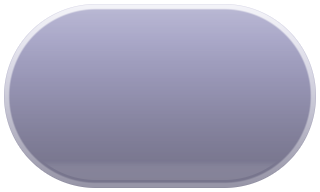
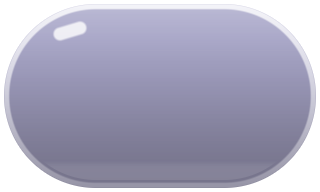
Verre liquide remis comme avant (retour de Thomas : boutons et pastilles trop fades)
- Boutons à texte (JOUER, Défi du jour…) : point de lumière et long reflet du haut revenus ; pastilles de verre (score, niveaux, pièces) : reflet spéculaire revenu. Images identiques au pixel à celles d'avant les finitions du 15/11.
- Boutons ronds à icône seule (réglages, retour…) : variante sans point de lumière ni reflet coupé (ui_button_icon, ui_gloss_icon), pour que la tache blanche ne revienne pas sur la roue crantée.
- ArtPack régénéré, ArtVersion 28 ; maquettes (scene_preview) et ArtPreview à jour ; comparaison docs/apercu/verre_liquide_retour.png.

Claude-Session: https://claude.ai/code/session_01GjF5pVKpWLsxsJrgQmasFX

Changed region(s): [[0.1562, 0.0938, 0.2812, 0.2188]]

diff --git a/Assets/Bascule/Scripts/Core/UiArt.cs b/Assets/Bascule/Scripts/Core/UiArt.cs
@@ -29,7 +29,11 @@ namespace Bascule.Core
         /// Texture 192 × 200, 9-slice de 60 px.
         /// </summary>
         /// <param name="k">Finesse : 2 = texture deux fois plus grande (écrans haute densité), même dessin.</param>
-        public static Raster Button(int w = 192, int h = 200, float k = 1f)
+        /// <param name="iconOnly">
+        /// Bouton rond à icône seule (réglages, retour…) : trait de lumière court, gardé dans le coin, car un bouton de
+        /// 124 px n'a pas de partie étirée et le trait long y était coupé net au milieu.
+        /// </param>
+        public static Raster Button(int w = 192, int h = 200, float k = 1f, bool iconOnly = false)
         {
             w = (int)(w * k); h = (int)(h * k);
             var img = new Raster(w, h);
@@ -42,10 +46,11 @@ namespace Bascule.Core
             // Brillance en haut.
             var gloss = Shape.Intersect(face.Grow(-7f * k), Shape.HalfPlane(0, -1, -(h * 0.66f)));
             img.Fill(gloss, Rgba.White.WithAlpha(0.55f), 3f * k);
-            // Trait de lumière en haut à gauche, entièrement dans le coin gauche de l'image (les 64 px jamais étirés en
-            // 9-slice) : avant, son bout droit dépassait dans la partie étirée et s'allongeait en traînée sur les grands
-            // boutons, et faisait un petit décroché au milieu des boutons ronds.
-            img.Fill(Shape.Capsule(w * 0.17f, h - o - 26 * k, w * 0.25f, h - o - 26 * k, 7f * k), Rgba.White.WithAlpha(0.9f));
+            // Trait de lumière en haut à gauche. Sur les boutons à texte, il déborde dans la partie étirée en 9-slice et
+            // devient le long reflet du « verre liquide » (JOUER, Défi du jour…), comme avant les finitions du 15/11 (retour
+            // de Thomas : sans lui, les boutons étaient fades). Sur les boutons ronds à icône, il reste court, dans le coin.
+            if (iconOnly) img.Fill(Shape.Capsule(w * 0.17f, h - o - 26 * k, w * 0.25f, h - o - 26 * k, 7f * k), Rgba.White.WithAlpha(0.9f));
+            else img.Fill(Shape.Capsule(w * 0.24f, h - o - 26 * k, w * 0.34f, h - o - 26 * k, 7f * k), Rgba.White.WithAlpha(0.9f));
             return img;
         }
 
@@ -74,7 +79,7 @@ namespace Bascule.Core
 
         /// <summary>
         /// Verre liquide (pastilles, dock, barre de score, onglets) : verre bleu nuit translucide, liseré lumineux
-        /// (vif en haut, discret en bas) et reflet de lumière en bas.
+        /// (vif en haut, discret en bas), reflet spéculaire en haut à gauche et reflet de lumière en bas.
         /// Dessiné avec ses propres couleurs : à afficher sans teinte (blanc). 9-slice de 46 px.
         /// </summary>
         public static Raster Glass(int w = 160, int h = 96, float k = 1f)
@@ -97,7 +102,10 @@ namespace Bascule.Core
             // Liseré : un anneau fin, lumineux en haut.
             var rim = Shape.Subtract(body, body.Grow(-2.6f * k));
             img.Fill(rim, Paint.Linear(Rgba.White.WithAlpha(0.85f), 0, h, Rgba.White.WithAlpha(0.22f), 0, 0), 1.2f * k);
-            // Pas de petit trait blanc en haut à gauche : posé seul sur le verre, il se lisait comme une trace.
+            // Reflet spéculaire : un petit trait arrondi en haut à gauche, entièrement dans le bout gauche de l'image
+            // (les 46 px qui ne sont jamais étirés en 9-slice). Sinon il s'allonge en traînée sur les éléments larges.
+            float sx = 30f * k, sy = h - m - 15f * k;
+            img.Fill(Shape.Capsule(sx, sy, sx + 10f * k, sy + 3f * k, 3.2f * k), Rgba.White.WithAlpha(0.8f), 1.5f * k);
             // Reflet de lumière en bas.
             img.FillClipped(body.Grow(-4f * k), Shape.HalfPlane(0, 1, m + 12f * k), Rgba.White.WithAlpha(0.1f), 5f * k);
             return img;
@@ -105,10 +113,14 @@ namespace Bascule.Core
 
         /// <summary>
         /// Reflet « liquide » posé sur les boutons (même taille et mêmes bords que <see cref="Button"/>) : un voile
-        /// blanc bombé sur le haut, un liseré lumineux et un reflet en bas, en blanc pur (non teinté), pour que
-        /// les boutons de couleur aient l'air de verre coloré.
+        /// blanc bombé sur le haut, un liseré lumineux, un point de lumière et un reflet en bas, en blanc pur (non
+        /// teinté), pour que les boutons de couleur aient l'air de verre coloré.
         /// </summary>
-        public static Raster ButtonGloss(int w = 192, int h = 200, float k = 1f)
+        /// <param name="iconOnly">
+        /// Bouton rond à icône seule : sans le point de lumière, qui tombait sur l'icône (la tache blanche sur la roue
+        /// crantée des réglages).
+        /// </param>
+        public static Raster ButtonGloss(int w = 192, int h = 200, float k = 1f, bool iconOnly = false)
         {
             w = (int)(w * k); h = (int)(h * k);
             var img = new Raster(w, h);
@@ -120,8 +132,9 @@ namespace Bascule.Core
             // Liseré intérieur lumineux sur le haut de la face.
             var edge = Shape.Intersect(Shape.Subtract(face.Grow(-2f * k), face.Grow(-6f * k)), Shape.HalfPlane(0, -1, -(h * 0.8f)));
             img.Fill(edge, Rgba.White.WithAlpha(0.55f), 1.5f * k);
-            // Reflet de lumière en bas de la face (le verre renvoie la lumière). Plus de point blanc opaque en haut à
-            // gauche : sur les petits boutons ronds (réglages), il se lisait comme une tache.
+            // Point de lumière (pas sur les boutons ronds à icône : il tombait sur l'icône) et reflet de lumière en bas
+            // de la face (le verre renvoie la lumière).
+            if (!iconOnly) img.Fill(Shape.Circle(w * 0.22f, h - o - 30f * k, 6f * k), Rgba.White.WithAlpha(0.95f), 1.5f * k);
             var low = Shape.Intersect(face.Grow(-9f * k), Shape.Ellipse(w * 0.5f, o + d + 10f * k, w * 0.36f, 12f * k));
             img.Fill(low, Rgba.White.WithAlpha(0.22f), 5f * k);
             return img;

diff --git a/Assets/Bascule/Scripts/Runtime/Game/ArtCache.cs b/Assets/Bascule/Scripts/Runtime/Game/ArtCache.cs
@@ -38,6 +38,9 @@ namespace Bascule
         /// <summary>Verre liquide (à afficher en blanc) et reflet liquide des boutons.</summary>
         public Sprite Glass { get; private set; }
         public Sprite Gloss { get; private set; }
+        /// <summary>Bouton rond à icône seule : trait de lumière court et pas de point de lumière sur l'icône.</summary>
+        public Sprite ButtonIcon { get; private set; }
+        public Sprite GlossIcon { get; private set; }
         public Sprite LevelTube { get; private set; }
         public Sprite Bubble { get; private set; }
         public Sprite Vignette { get; private set; }
@@ -95,6 +98,8 @@ namespace Bascule
             Pill = Cached("ui_pill", () => UiArtist.Pill(160, 96, k), ppu, new Vector4(46, 46, 46, 46) * k);
             Glass = Cached("ui_glass", () => UiArtist.Glass(160, 96, k), ppu, new Vector4(46, 46, 46, 46) * k);
             Gloss = Cached("ui_gloss", () => UiArtist.ButtonGloss(192, 200, k), ppu, new Vector4(64, 66, 64, 64) * k);
+            ButtonIcon = Cached("ui_button_icon", () => UiArtist.Button(192, 200, k, iconOnly: true), ppu, new Vector4(64, 66, 64, 64) * k);
+            GlossIcon = Cached("ui_gloss_icon", () => UiArtist.ButtonGloss(192, 200, k, iconOnly: true), ppu, new Vector4(64, 66, 64, 64) * k);
             LevelTube = Cached("ui_level", () => UiArtist.LevelTube(640, 96, k), ppu, Vector4.zero);
             Bubble = Cached("ui_bubble", () => UiArtist.Bubble((int)(96 * k)), ppu, Vector4.zero);
             Vignette = Cached("ui_vignette", () => UiArtist.Vignette(), 100, Vector4.zero);
@@ -412,7 +417,7 @@ namespace Bascule
         /// <summary>
         /// À augmenter à chaque modification des dessins (Core/*Art*.cs) : les images en cache sont alors redessinées.
         /// </summary>
-        public const int ArtVersion = 27;
+        public const int ArtVersion = 28;
 
         static string _cacheDir;
 

diff --git a/Assets/Bascule/Scripts/Runtime/UI/Ui.cs b/Assets/Bascule/Scripts/Runtime/UI/Ui.cs
@@ -175,7 +175,9 @@ namespace Bascule.UI
         /// </summary>
         public static Button Button(Transform parent, string label, Color color, Action onClick, Icon? icon = null, int fontSize = 60, string name = "Bouton")
         {
-            var img = Image(parent, Art.Button, color, name, true);
+            // Bouton rond à icône seule (réglages, retour…) : variante sans point de lumière sur l'icône.
+            bool iconOnly = string.IsNullOrEmpty(label) && icon.HasValue;
+            var img = Image(parent, iconOnly && Art.ButtonIcon != null ? Art.ButtonIcon : Art.Button, color, name, true);
             img.raycastTarget = true;
             var btn = img.gameObject.AddComponent<Button>();
             var colors = btn.colors;
@@ -191,9 +193,10 @@ namespace Bascule.UI
             img.gameObject.AddComponent<PressScale>();
 
             // Reflet liquide (blanc, non teinté) : le bouton de couleur prend l'aspect d'un verre coloré.
-            if (Art.Gloss != null)
+            var glossSprite = iconOnly && Art.GlossIcon != null ? Art.GlossIcon : Art.Gloss;
+            if (glossSprite != null)
             {
-                var gloss = Image(img.transform, Art.Gloss, Color.white, "Reflet", true);
+                var gloss = Image(img.transform, glossSprite, Color.white, "Reflet", true);
                 Stretch(gloss.rectTransform);
             }
             // Contenu au-dessus du relief (14 px de profondeur dans la texture), centré icône + texte.

diff --git a/Tools/scene_preview.py b/Tools/scene_preview.py
@@ -313,8 +313,10 @@ def icon(img, name, box):
 # pour qu'il tienne ; ici on fait pareil ET on le note, pour corriger la mise en page au lieu de livrer un texte minuscule).
 def button(img, box, color, label=None, ic=None, size=60):
     """Ui.Button + ButtonLayout : icône et texte centrés ; s'ils ne tiennent pas, l'icône se resserre puis le texte rétrécit."""
-    nine(img, load("ui/button.png"), box, (64, 64, 64, 66), tint=COL.get(color, color))
-    nine(img, load("ui/gloss.png"), box, (64, 64, 64, 66))  # reflet liquide (Ui.Button)
+    # Bouton rond à icône seule : variante sans point de lumière sur l'icône (Ui.Button, iconOnly).
+    only = ic and not label
+    nine(img, load("ui/button_icon.png" if only else "ui/button.png"), box, (64, 64, 64, 66), tint=COL.get(color, color))
+    nine(img, load("ui/gloss_icon.png" if only else "ui/gloss.png"), box, (64, 64, 64, 66))  # reflet liquide (Ui.Button)
     l, t, r, b = box
     cl, ct, cr, cb = l + 18, t + 6, r - 18, b - 20
     cy = (ct + cb) / 2

diff --git a/Tools/ArtPreview/Program.cs b/Tools/ArtPreview/Program.cs
@@ -86,6 +86,8 @@ Png.Save(UiArtist.Panel(), Path.Combine(outDir, "ui", "panel.png"));
 Png.Save(UiArtist.Pill(), Path.Combine(outDir, "ui", "pill.png"));
 Png.Save(UiArtist.Glass(), Path.Combine(outDir, "ui", "glass.png"));
 Png.Save(UiArtist.ButtonGloss(), Path.Combine(outDir, "ui", "gloss.png"));
+Png.Save(UiArtist.Button(iconOnly: true), Path.Combine(outDir, "ui", "button_icon.png"));
+Png.Save(UiArtist.ButtonGloss(iconOnly: true), Path.Combine(outDir, "ui", "gloss_icon.png"));
 Png.Save(UiArtist.Glass(160, 96, 2f), Path.Combine(outDir, "ui", "glass@2x.png"));
 Png.Save(UiArtist.ButtonGloss(192, 200, 2f), Path.Combine(outDir, "ui", "gloss@2x.png"));
 // Icône de l'application (copiée dans Assets/Bascule/Icone par la commande indiquée dans CLAUDE.md).

diff --git a/Assets/Bascule/Scripts/Core/ArtCatalog.cs b/Assets/Bascule/Scripts/Core/ArtCatalog.cs
@@ -65,6 +65,8 @@ namespace Bascule.Core
             yield return new Job("ui_pill", () => UiArtist.Pill(160, 96, k));
             yield return new Job("ui_glass", () => UiArtist.Glass(160, 96, k));
             yield return new Job("ui_gloss", () => UiArtist.ButtonGloss(192, 200, k));
+            yield return new Job("ui_button_icon", () => UiArtist.Button(192, 200, k, iconOnly: true));
+            yield return new Job("ui_gloss_icon", () => UiArtist.ButtonGloss(192, 200, k, iconOnly: true));
             yield return new Job("ui_level", () => UiArtist.LevelTube(640, 96, k));
             yield return new Job("scene_" + BootPlankKey, BootPlank);
             yield return new Job("ui_chest_base", () => UiArtist.ChestBase(512));
